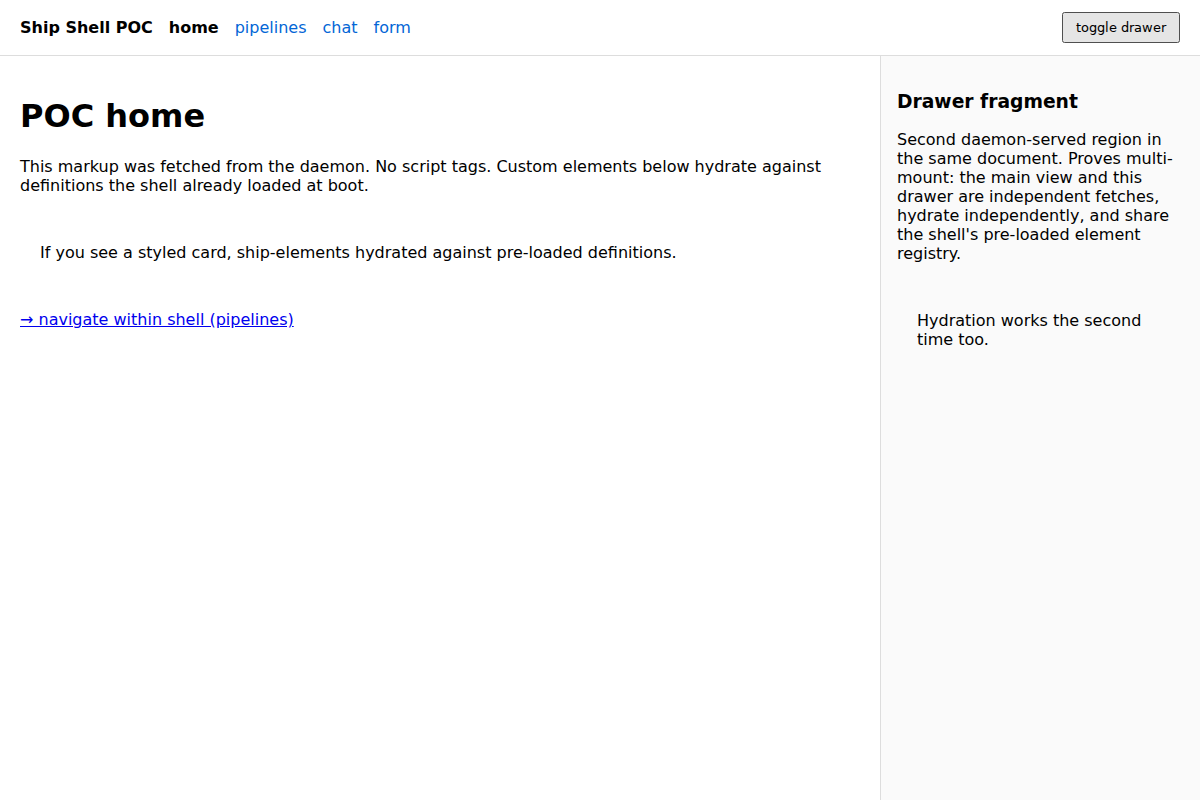
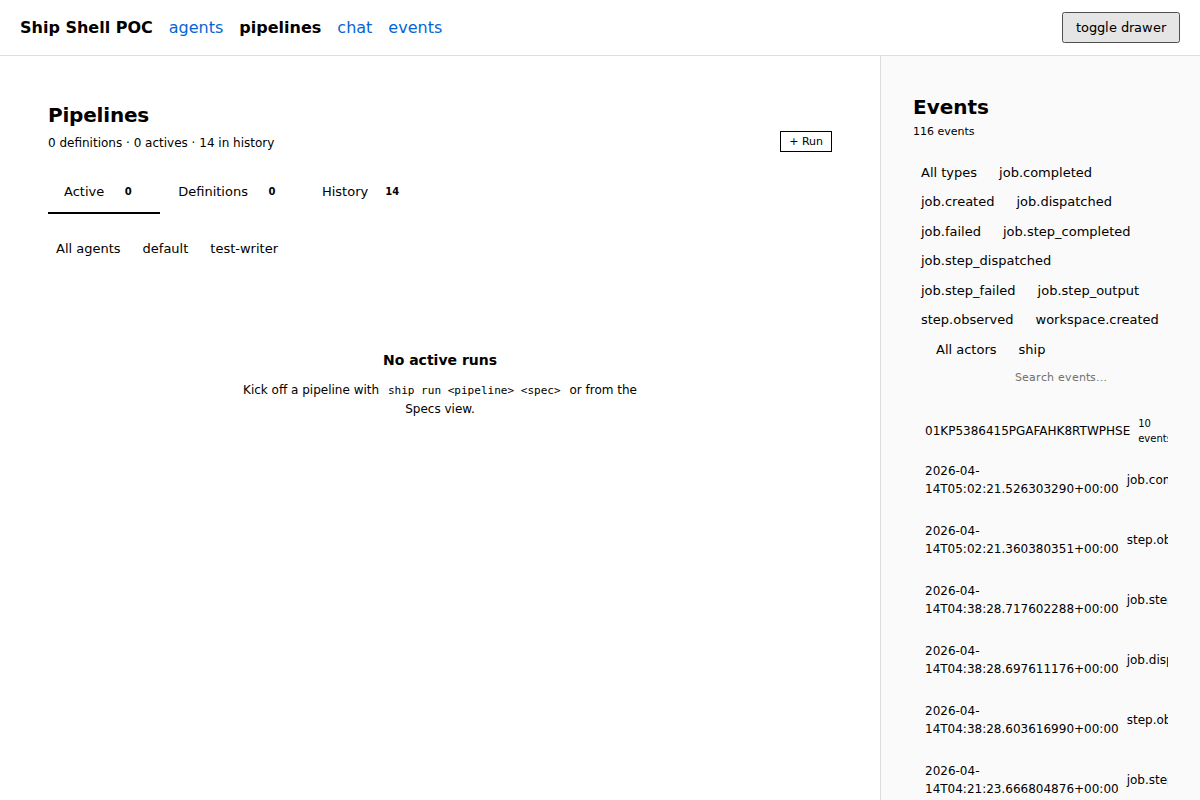
feat(shell): mount real first-party ship views (pipelines/agents/chat/events)
Switched routes from .ship/views fixtures to /api/runtime/view/{name}
(non-/raw inner-shell endpoint). Requires the daemon built from this tree;
older binaries 404. Hydration probe confirms <ship-button>, <ship-tabs>
etc. attach shadow roots against the pre-loaded element registry.

diff --git a/apps/shell/src/main.ts b/apps/shell/src/main.ts
@@ -1,6 +1,6 @@
 import { mountDaemonFragment, openDaemonSSE } from "./mount";
 
-const DAEMON_BASE = (import.meta.env.VITE_DAEMON_URL as string) ?? "http://127.0.0.1:51742";
+const DAEMON_BASE = (import.meta.env.VITE_DAEMON_URL as string) ?? "http://127.0.0.1:9316";
 const TOKEN = (import.meta.env.VITE_DAEMON_TOKEN as string) ?? "";
 
 if (!TOKEN) {
@@ -14,7 +14,14 @@ const view = document.getElementById("view") as HTMLElement;
 const drawerContent = document.getElementById("drawer-content") as HTMLElement;
 const drawerBtn = document.getElementById("toggle-drawer") as HTMLButtonElement;
 
-type Route = { path: string; render: () => Promise<void> };
+type Route = { path: string; mount: string; sse?: string };
+
+const routes: Route[] = [
+  { path: "/", mount: "/api/runtime/view/agents" },
+  { path: "/pipelines", mount: "/api/runtime/view/pipelines", sse: "/api/runtime/view/pipelines/sse" },
+  { path: "/chat", mount: "/api/runtime/view/chat", sse: "/api/runtime/view/chat/sse" },
+  { path: "/events", mount: "/api/runtime/view/events", sse: "/api/runtime/view/events/sse" },
+];
 
 let currentSSE: EventSource | null = null;
 function closeSSE() {
@@ -24,78 +31,30 @@ function closeSSE() {
   }
 }
 
-const routes: Route[] = [
-  {
-    path: "/",
-    render: async () => {
-      closeSSE();
-      await mountDaemonFragment(view, "/api/runtime/view/poc-home/raw", {
-        token: TOKEN,
-        base: DAEMON_BASE,
-      });
-    },
-  },
-  {
-    path: "/pipelines",
-    render: async () => {
-      closeSSE();
-      await mountDaemonFragment(view, "/api/runtime/view/poc-pipelines/raw", {
-        token: TOKEN,
-        base: DAEMON_BASE,
-      });
-    },
-  },
-  {
-    path: "/chat",
-    render: async () => {
-      closeSSE();
-      await mountDaemonFragment(view, "/api/runtime/view/poc-chat/raw", {
-        token: TOKEN,
-        base: DAEMON_BASE,
-      });
-      // Exercise #3 — SSE update into the mounted fragment. The fragment
-      // contains an element with id="sse-target" that we push messages into.
-      currentSSE = openDaemonSSE("/api/runtime/view/poc-chat/events", {
-        token: TOKEN,
-        base: DAEMON_BASE,
-      });
-      currentSSE.onmessage = (ev) => {
-        const el = document.getElementById("sse-target");
-        if (el) el.insertAdjacentHTML("afterbegin", `<li>${ev.data}</li>`);
-      };
-      currentSSE.onerror = () => {
-        const el = document.getElementById("sse-target");
-        if (el)
-          el.insertAdjacentHTML(
-            "afterbegin",
-            `<li style="color:#a00">[SSE error — see findings §3]</li>`,
-          );
-      };
-    },
-  },
-  {
-    path: "/form",
-    render: async () => {
-      closeSSE();
-      await mountDaemonFragment(view, "/api/runtime/view/poc-form/raw", {
-        token: TOKEN,
-        base: DAEMON_BASE,
-      });
-      // Intercept form submits inside the mounted fragment so the daemon
-      // response becomes a fragment replacement. This mimics what
-      // `<ship-form>` / datastar would do; we wire it manually here to
-      // keep the POC dependency-light.
-      view.addEventListener("submit", onFragmentSubmit, { once: true });
-    },
-  },
-];
+async function renderRoute(r: Route) {
+  closeSSE();
+  await mountDaemonFragment(view, r.mount, { token: TOKEN, base: DAEMON_BASE });
+  if (r.sse) {
+    currentSSE = openDaemonSSE(r.sse, { token: TOKEN, base: DAEMON_BASE });
+    // Datastar normally consumes SSE frames directly against the mounted
+    // fragment. Here we just log events so the POC is observable.
+    currentSSE.onmessage = (ev) => console.log("[sse]", ev.data);
+    currentSSE.onerror = () => console.warn("[sse] error — see findings §3");
+  }
+}
 
-async function onFragmentSubmit(ev: Event) {
-  const form = ev.target as HTMLFormElement;
+view.addEventListener("submit", (ev) => {
+  const form = ev.target;
   if (!(form instanceof HTMLFormElement)) return;
   ev.preventDefault();
+  void submitFragmentForm(form);
+});
+
+async function submitFragmentForm(form: HTMLFormElement) {
+  const action = form.getAttribute("action") || form.dataset.action || "";
+  const url = /^https?:/.test(action) ? action : `${DAEMON_BASE}${action}`;
   const body = new URLSearchParams(new FormData(form) as unknown as Record<string, string>);
-  const res = await fetch(form.action || form.getAttribute("data-action") || "", {
+  const res = await fetch(url, {
     method: form.method || "POST",
     credentials: "omit",
     headers: {
@@ -117,7 +76,7 @@ function match(path: string): Route {
 async function navigate(path: string) {
   history.pushState({}, "", path);
   updateNav();
-  await match(path).render();
+  await renderRoute(match(path));
 }
 
 function updateNav() {
@@ -135,20 +94,19 @@ document.querySelectorAll<HTMLAnchorElement>("header a[data-route]").forEach((a)
 
 window.addEventListener("popstate", () => {
   updateNav();
-  void match(location.pathname).render();
+  void renderRoute(match(location.pathname));
 });
 
-// Drawer — exercise #6: two daemon-served fragments mounted simultaneously.
+// Drawer — multi-mount: a second daemon fragment alongside the main region.
 drawerBtn.addEventListener("click", async () => {
   document.body.classList.toggle("drawer-open");
   if (document.body.classList.contains("drawer-open")) {
-    await mountDaemonFragment(drawerContent, "/api/runtime/view/poc-drawer/raw", {
+    await mountDaemonFragment(drawerContent, "/api/runtime/view/events", {
       token: TOKEN,
       base: DAEMON_BASE,
     });
   }
 });
 
-// Boot.
 updateNav();
-void match(location.pathname).render();
+void renderRoute(match(location.pathname));

diff --git a/apps/shell/index.html b/apps/shell/index.html
@@ -45,10 +45,10 @@
   <body>
     <header>
       <strong>Ship Shell POC</strong>
-      <a data-route="/">home</a>
+      <a data-route="/">agents</a>
       <a data-route="/pipelines">pipelines</a>
       <a data-route="/chat">chat</a>
-      <a data-route="/form">form</a>
+      <a data-route="/events">events</a>
       <span class="spacer"></span>
       <button id="toggle-drawer">toggle drawer</button>
     </header>

diff --git a/apps/shell/vite.config.ts b/apps/shell/vite.config.ts
@@ -19,7 +19,7 @@ function resolveToken(envToken: string | undefined): string {
 
 export default defineConfig(({ mode }) => {
   const env = loadEnv(mode, process.cwd(), "");
-  const daemon = env.VITE_DAEMON_URL ?? "http://127.0.0.1:51742";
+  const daemon = env.VITE_DAEMON_URL ?? "http://127.0.0.1:9316";
   const token = resolveToken(env.VITE_DAEMON_TOKEN);
   if (!token) {
     console.warn(

diff --git a/apps/shell/POC-findings.md b/apps/shell/POC-findings.md
@@ -19,6 +19,20 @@ Bearer auth. **SSE is the one sharp edge** — `EventSource` cannot set
 
 ---
 
+## Update — real ship views work
+
+The shell now mounts **real** first-party views (`pipelines`, `agents`,
+`chat`, `events`) via `/api/runtime/view/{name}` (no `/raw` suffix — that
+endpoint wraps the view in a full `<!DOCTYPE html>` for iframe/standalone
+use). The non-suffixed endpoint returns the inner shell fragment exactly as
+fragment-mount wants. Evidence in `findings-evidence/01-*.png` through
+`04-*.png`; the hydration probe observed `<ship-button>` and `<ship-tabs>`
+with live shadow roots, coming from daemon markup.
+
+Requires running the daemon from this tree
+(`target/debug/shipd --port 9316 --dev`); the older binary on :51742
+predates `render_sdk_shell` and returns 404.
+
 ## Setup
 
 ```bash
